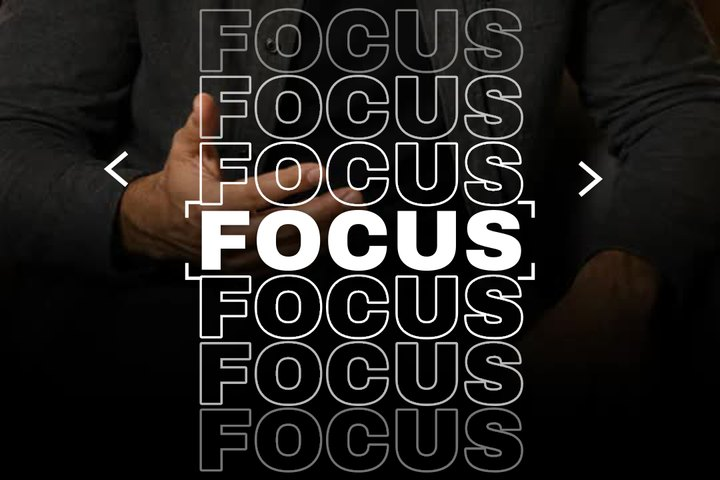
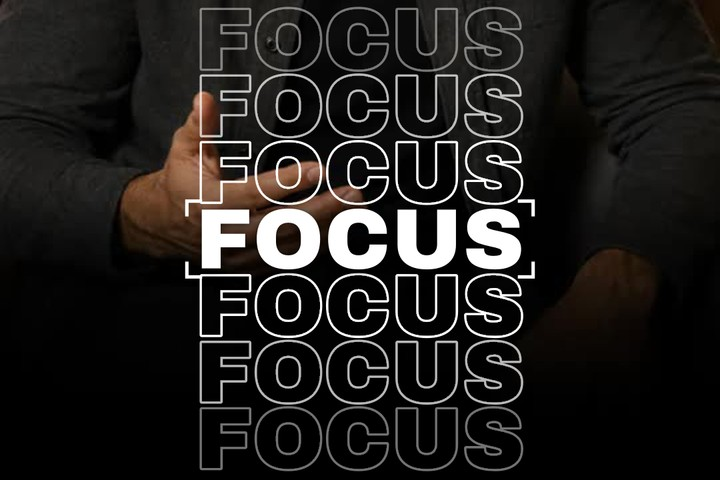
fix(captions): remove Cascade arrow decorations

diff --git a/packages/caption-scene/src/templates/cascade.ts b/packages/caption-scene/src/templates/cascade.ts
@@ -13,14 +13,14 @@ import { polygonPath, rectPath } from "../shapes";
  * Ordinary words are italic lockups (Archivo Black 84 px, sheared -12 degrees, the whole block tipped -6 degrees, each row stepped
  * in 46 px) riding a thin white rule; every word cuts in with a red / cyan split that snaps to white in 150 ms. The hero word
  * punches in upright, fitted to 600 px, blur to sharp, and fires an echo cascade: outline copies above and below it flash on a
- * 150 ms beat (stack, gone, stack, staircase), two chevrons hop around it, and a level rule draws in under it. The block leaves
+ * 150 ms beat (stack, gone, stack, staircase), and a level rule draws in under it. The block leaves
  * with a left-to-right wipe.
  *
  * What changed from the sample, and why (gallery-3 brief, 2026-11-21):
- * - `LEFT 170` is gone: the block (chevrons, rule and the slow drift included) is centred on the anchor; a right-to-left cue is the
+ * - `LEFT 170` is gone: the block (rule and the slow drift included) is centred on the anchor; a right-to-left cue is the
  *   mirror image (tilt, shear, indent, drift and wipe all flip, rows are flush right).
  * - The rule ran x 20 -> 980 (outside the safe margin) and the 46 px indent pushed a third row to the edge: the rule now spans the
- *   block (plus the chevrons' room), the row limit shrinks with the number of rows, and a block that still does not fit shrinks as
+ *   block, the row limit shrinks with the number of rows, and a block that still does not fit shrinks as
  *   a whole. Lockup words had no fit: a word wider than a row shrinks the block (no floor, a word must fit).
  * - The sample's hero cue drew only the hero and silently dropped every other word of the cue. Now the words before and after the
  *   hero are lockup rows (italic, straight, centred) above and below it, and a cue's hero run of several words is one hero row.
@@ -28,8 +28,7 @@ import { polygonPath, rectPath } from "../shapes";
  *   horizontal trail.
  * - `PATTERN` was the same on every hero cue: four beat patterns now cycle by a counter of hero cues. The cascade needs ~1.3 s;
  *   it is compressed to the time the hero has (beat 100 to 150 ms, leading silent beats dropped, the rule drawn in what is left).
- * - Recurring extras in the template's own language (counted per cue by the tests): on every lockup cue a chevron pair that points
- *   into the first word and nudges forward as each word lands (three variants), a scan bar that sweeps each word as it splits
+ * - Recurring extras in the template's own language (counted per cue by the tests): on every lockup cue a scan bar that sweeps each word as it splits
  *   (three variants), and a rule that is drawn in red / cyan before it settles white; on every hero cue register brackets that close
  *   in on the hero (three variants), the same red / cyan rule, and a rule that draws left, right or from the middle.
  * - Real speech: the sample's 160 ms wipe covered the last 180 ms of speech. The exit never starts before the last word has been
@@ -37,6 +36,7 @@ import { polygonPath, rectPath } from "../shapes";
  *   the sample's 0.018 px/ms, stopped after 1.7 s so it never leaves the safe area on a long hold.
  *   Handoffs use the shared export grid at the render's actual frame rate. Overlapping speakers get lanes clear of live echoes;
  *   trimming a decoration leaves the word's lead intact, and the hero includes the preceding frame even at 24 fps.
+ * - Arrow decorations are omitted from both hero and lockup cues at the owner's request.
  * - The hero punch blur (14 px for 170 ms) is kept (two frames of it at 30 fps are visible); the rule's `0 2px 8px` shadow is
  *   dropped (invisible on the dark footage the template is judged on); the words' shadow is one soft layer.
  * - The tilted wipe edge is the sample's local vertical, a canvas clip per word at that word's row (it leans 6 degrees in the sample).
@@ -88,7 +88,6 @@ const RULE_THICK = 4;
 const RULE_SEG = 170;
 const EXIT = 160;
 const HOLD = 150;
-const CHEVRON_GAP = 26;
 
 /** Archivo Black's line box: ascent 0.878 and descent 0.21 em, each rounded to whole px by Chrome. */
 export function cascadeBaseline(sizePx: number): number {
@@ -105,12 +104,6 @@ export function cascadeHash(text: string): number {
     h = Math.imul(h, 0x01000193);
   }
   return h >>> 0;
-}
-
-/** The sample's seeded spot generator for the chevrons. */
-export function cascadeRand(n: number): number {
-  const x = Math.sin(n * 127.1 + 311.7) * 43758.5453;
-  return x - Math.floor(x);
 }
 
 const SIMPLE = /^[\p{Script=Latin}\p{Script=Cyrillic}\p{Script=Greek}\p{Script=Common}\p{Script=Inherited}]+$/u;
@@ -444,13 +437,6 @@ function buildCue(cue: SceneCue, cueNumber: number, input: SceneInput, variant: 
     }
   };
 
-  /** A chevron polygon (the sample's 7 px polyline, square caps) in a 44 x 56 box, scaled by `k`, pointing right (`dir` 1) or left (-1). */
-  const chevronPath = (k: number, dir: 1 | -1) => {
-    const pts: [number, number][] = [[3.07, 6.41], [7.59, 1.07], [39.43, 28], [7.59, 54.93], [3.07, 49.59], [28.57, 28]];
-    return polygonPath(pts.map(([x, y]) => [(dir === 1 ? x : 44 - x) * k, y * k] as [number, number]));
-  };
-  const chevronBox = (k: number) => ({ w: 44 * k, h: 56 * k });
-
   const lead = roles.lead;
   const heroIdx = roles.hero;
   const tail = roles.tail;
@@ -491,7 +477,6 @@ function buildCue(cue: SceneCue, cueNumber: number, input: SceneInput, variant: 
     const shadows = [{ dx: 0, dy: 4 * u * k0, blur: 5 * u * k0, colour: colours.shadow, alpha: 0.6 }];
     const wordList: { index: number; row: Row; item: Row["items"][number] }[] = [];
     for (const row of laid.rows) for (const item of row.items) wordList.push({ index: item.index, row, item });
-    const byTime = [...wordList].sort((a, b) => startOf(a.index) - startOf(b.index));
     const swap = (lockupNumber + (seed & 1)) % 2 === 1;
     for (const { index, row, item } of wordList) {
       const s = Math.round(lockupEnter(index));
@@ -558,84 +543,6 @@ function buildCue(cue: SceneCue, cueNumber: number, input: SceneInput, variant: 
     const drawDur = Math.round(clamp(exitFrom - drawFrom - 20, minAnim, 420));
     rule("rule", fr, ruleA, ruleB, ruleY, drawFrom, drawDur, rtl ? -1 : 1, dr, 1);
 
-    // chevron pair: points into the first word, nudges ahead as each word lands
-    const first = byTime[0]!;
-    const variant = lockupNumber % 3;
-    const kc = 0.8 * k0;
-    const box = chevronBox(kc);
-    const count = variant === 1 ? 3 : variant === 0 ? 2 : 1;
-    const alphas = variant === 1 ? [0.35, 0.65, 1] : [1, 1];
-    const cyl = first.row.ly + sizeC / 2;
-    const startLx = first.item.lx;
-    const lead0 = first.row.items[0]!.lx;
-    const wordsStarts = byTime.map((entry) => startOf(entry.index));
-    const nudge = (t: number) => {
-      let sum = 0;
-      for (const start of wordsStarts.slice(1)) if (t >= start) sum += 10 * u * Math.exp(-(t - start) / 120);
-      return Math.min(sum, 14 * u) * sgn;
-    };
-    const chevAt = Math.round(lockupEnter(first.index));
-    const items: { w: number; h: number; path: ReturnType<typeof chevronPath>; lx: number }[] = [];
-    // slots counted from the word outwards
-    let outward = CHEVRON_GAP * u * k0;
-    for (let c = 0; c < count; c++) items.push({ w: box.w, h: box.h, path: chevronPath(kc, sgn as 1 | -1), lx: 0 });
-    let slot = 0;
-    for (const item of items) {
-      const lxEdge = rtl ? lead0 + first.row.width + outward : startLx - outward;
-      const lxCentre = rtl ? lxEdge + item.w / 2 : lxEdge - item.w / 2;
-      const o: Frames = [[chevAt + slot * 40, 0], [chevAt + slot * 40 + 90, alphas[slot] ?? 1]];
-      const from = chevAt + slot * 40;
-      const slide = (t: number) => (1 - EASES.outExpo(prog(t, from, 200))) * -44 * u * sgn;
-      const pivot = (t: number) => at(fr, lxCentre + slide(t) + nudge(t), cyl);
-      const clipFr = fr;
-      const clip = wipeClip(clipFr, cyl, dr, from, exitTo);
-      pieces.push({
-        id: `cascade:${cueNumber}:chev${slot}`,
-        kind: "shape",
-        z: band + 5,
-        fromMs: from,
-        toMs: exitTo,
-        path: item.path,
-        origin: { dx: item.w / 2, dy: item.h / 2 },
-        fill: { colour: WHITE },
-        track: {
-          x: chan((t) => pivot(t).x + dr(t), from, exitTo, [from + 200, cue.startMs + DRIFT_MS, ...wordsStarts.flatMap((start) => [start, start + 120, start + 360])], 0.2),
-          y: chan((t) => pivot(t).y, from, exitTo, [from + 200, ...wordsStarts.flatMap((start) => [start, start + 120, start + 360])], 0.2),
-          rz: frame(from, fr.theta),
-          o,
-        },
-        clip,
-      });
-      outward += item.w + 8 * u * k0;
-      slot++;
-    }
-    if (variant === 2) {
-      // a short bar in front of the single chevron: a dash that points the way
-      const barW = 34 * u * k0;
-      const barH = 6 * u * k0;
-      const lxEdge = rtl ? lead0 + first.row.width + outward : startLx - outward;
-      const lxCentre = rtl ? lxEdge + barW / 2 : lxEdge - barW / 2;
-      const from = chevAt + 40;
-      const slide = (t: number) => (1 - EASES.outExpo(prog(t, from, 200))) * -44 * u * sgn;
-      const pivot = (t: number) => at(fr, lxCentre + slide(t) + nudge(t), cyl);
-      pieces.push({
-        id: "cascade:" + cueNumber + ":chevbar",
-        kind: "shape",
-        z: band + 5,
-        fromMs: from,
-        toMs: exitTo,
-        path: rectPath(0, 0, barW, barH),
-        origin: { dx: barW / 2, dy: barH / 2 },
-        fill: { colour: WHITE },
-        track: {
-          x: chan((t) => pivot(t).x + dr(t), from, exitTo, [from + 200, cue.startMs + DRIFT_MS, ...wordsStarts.flatMap((start) => [start, start + 120, start + 360])], 0.2),
-          y: chan((t) => pivot(t).y, from, exitTo, [from + 200, ...wordsStarts.flatMap((start) => [start, start + 120, start + 360])], 0.2),
-          rz: frame(from, fr.theta),
-          o: [[from, 0], [from + 90, 1]],
-        },
-        clip: wipeClip(fr, cyl, dr, from, exitTo),
-      });
-    }
     return finish(pieces);
   }
 
@@ -825,35 +732,6 @@ function buildCue(cue: SceneCue, cueNumber: number, input: SceneInput, variant: 
     });
   }
 
-  // chevrons hop around the block on every beat after the first
-  const heroBlockHalf = Math.max(widest, heroW) / 2;
-  const kc = 1 * (heroSizeC / (HERO_MAX * u)) ** 0.5;
-  const cbox = chevronBox(kc * u);
-  for (let step = pattern.length > 1 ? 1 : 0; step < pattern.length; step++) {
-    const from = Math.round(castFrom + step * beat);
-    const to = Math.round(Math.min(castFrom + (step + 1) * beat, cEnd));
-    if (to <= from) continue;
-    for (let i = 0; i < 2; i++) {
-      const sd = step * 7 + i * 3 + cue.index * 31 + (seed % 97);
-      const side = (i + step) % 2 === 0 ? -1 : 1;
-      const x = frHero.ex + side * (heroBlockHalf + 70 * u + cascadeRand(sd) * 90 * u);
-      const y = heroCentre.y - 260 * u + cascadeRand(sd + 1) * 520 * u;
-      const cx = clamp(x, safe.x1 + cbox.w / 2, safe.x2 - cbox.w / 2);
-      const cy = clamp(y, frHero.ey + rangeLo + cbox.h / 2, frHero.ey + rangeHi - cbox.h / 2);
-      pieces.push({
-        id: `cascade:${cueNumber}:chev${step}${i}`,
-        kind: "shape",
-        z: band + 5,
-        fromMs: from,
-        toMs: to,
-        path: chevronPath(kc * u, side < 0 ? -1 : 1),
-        origin: { dx: cbox.w / 2, dy: cbox.h / 2 },
-        fill: { colour: WHITE },
-        track: { x: frame(from, cx), y: frame(from, cy) },
-      });
-    }
-  }
-
   // register brackets close in on the hero
   {
     const capTop = frHero.ey + heroTop + heroBase + input.measure("H", FACE, heroSizeC, LS).inkTop;
@@ -1008,7 +886,7 @@ function coverFrame(q: Piece, dyQ: number, words: readonly { piece: Piece; dy: n
 }
 
 const inkId = (piece: Piece) => /^cascade:\d+:(w|h)\d+[ab]?$/.test(piece.id);
-const decorId = (piece: Piece) => /^cascade:\d+:(e\d|chev|br|scan)/.test(piece.id);
+const decorId = (piece: Piece) => /^cascade:\d+:(e\d|br|scan)/.test(piece.id);
 
 /**
  * The handoff rule between cues (`gallery3-brief.md`), in its order: the earlier cue's exit gives way (a wipe shortens or drops
@@ -1047,7 +925,7 @@ function orchestrate(input: SceneInput, probes: readonly Piece[][], variants: re
   /** How a probe piece of cue j moves when j gives up lead: 0 never, 1 with the rule's lead, 2 with the words'. */
   const kindOf = (piece: Piece, j: number) => {
     const id = piece.id.split(":").slice(2).join(":");
-    if (/^e\d/.test(id) || /^chev\d\d$/.test(id)) return 0;
+    if (/^e\d/.test(id)) return 0;
     if (/^rule\d+[rc]?$/.test(id)) return heroCue[j] ? 0 : 1;
     return 2;
   };
@@ -1155,7 +1033,7 @@ function orchestrate(input: SceneInput, probes: readonly Piece[][], variants: re
     }
     const ctl: Control = { shift: shift[i]!, decor: decor[i]!, limit, dy: dy[i]! };
     let mine = ctl.shift === 0 && ctl.decor === 0 && ctl.dy === 0 && !Number.isFinite(ctl.limit) ? probes[i]! : buildCue(cues[i]!, i, input, variants[i]!, ctl);
-    // Decoration (echoes, chevrons, brackets, scan bars) a later cue's word ink still covers ends before it, ahead of any word.
+    // Decoration (echoes, brackets, scan bars) a later cue's word ink still covers ends before it, ahead of any word.
     const ink = later.flatMap((j) => built[j]!.filter(inkId));
     if (ink.length > 0) {
       mine = mine.flatMap((piece) => {

diff --git a/packages/caption-scene/src/cascade.test.ts b/packages/caption-scene/src/cascade.test.ts
@@ -5,7 +5,7 @@ import { exportFrameAtOrBefore, exportFrameTimes } from "./frame-grid";
 import { EASES, prog } from "./ease";
 import type { SceneCue } from "./input";
 import { type Box, type Piece, type ShapePiece, type TextPiece, evaluatePiece, pieceBounds, sceneBoundsAt } from "./scene";
-import { CASCADE_DEMO, CASCADE_PATTERNS, cascadeBaseline, cascadeBeats, cascadeCase, cascadeHash, cascadeProgram, cascadeRand, cascadeShears } from "./templates/cascade";
+import { CASCADE_DEMO, CASCADE_PATTERNS, cascadeBaseline, cascadeBeats, cascadeCase, cascadeHash, cascadeProgram, cascadeShears } from "./templates/cascade";
 import { fakeMeasure, sceneInput } from "./test-support";
 
 const { cues } = demoCues(CASCADE_DEMO);
@@ -68,7 +68,7 @@ describe("Cascade geometry", () => {
     expect(cascadeBaseline(128)).toBe(106.5);
   });
 
-  test("the block, chevrons and rule are centred on the anchor and rows step in 46 px", () => {
+  test("the block and rule are centred on the anchor and rows step in 46 px", () => {
     const rows = ofCue(scene, 0).filter((piece) => /^w\d$/.test(idOf(piece)));
     expect(rows.length).toBe(5);
     const mid = (list: readonly Piece[]) => {
@@ -170,8 +170,6 @@ describe("Cascade motion", () => {
   test("the seeded helpers are pure and the build is deterministic", () => {
     expect(cascadeHash("a")).toBe(cascadeHash("a"));
     expect(cascadeHash("a")).not.toBe(cascadeHash("b"));
-    expect(cascadeRand(3)).toBe(cascadeRand(3));
-    expect(cascadeRand(3)).not.toBe(cascadeRand(4));
     expect(JSON.stringify(build(cues))).toBe(JSON.stringify(build(cues)));
   });
 });
@@ -215,17 +213,16 @@ describe("Cascade real speech and long clips", () => {
     const long = longClip(6);
     expect(long.length).toBeGreaterThanOrEqual(30);
     const list = build(long);
-    const chevronCounts = new Set<string>();
     const echoSignatures = new Set<string>();
     const bracketSignatures = new Set<string>();
     const scans = { total: 0, vertical: 0, horizontal: 0 };
     const sides = new Set<number>();
-    let chevronPairs = 0;
     let scanBars = 0;
     let brackets = 0;
     let ruleLeads = 0;
     long.forEach((cue, number) => {
       const mine = ofCue(list, number);
+      expect(mine.some((piece) => /^chev/.test(idOf(piece)))).toBe(false);
       const hero = cue.words.some((word) => word.role === "hero");
       expect(mine.some((piece) => /^rule\d/.test(idOf(piece)))).toBe(true);
       expect(mine.some((piece) => /^rule\d+r$/.test(idOf(piece)))).toBe(true);
@@ -237,12 +234,7 @@ describe("Cascade real speech and long clips", () => {
         bracketSignatures.add(br.map((piece) => idOf(piece)).join());
         const echoes = mine.filter((piece) => /^e/.test(idOf(piece)));
         echoSignatures.add(echoes.map((piece) => `${idOf(piece).match(/s\d/)![0]}${Math.round(evaluatePiece(piece, piece.fromMs).x)}`).join());
-        expect(mine.filter((piece) => /^chev/.test(idOf(piece))).length).toBeGreaterThanOrEqual(2);
       } else {
-        const chevs = mine.filter((piece) => /^chev/.test(idOf(piece)));
-        expect(chevs.length).toBeGreaterThanOrEqual(2);
-        chevronCounts.add(chevs.map((piece) => idOf(piece)).join());
-        chevronPairs++;
         const bars = mine.filter((piece) => /^scan\d/.test(idOf(piece))) as ShapePiece[];
         expect(bars.length).toBe(cue.words.length);
         scanBars += bars.length;
@@ -256,14 +248,12 @@ describe("Cascade real speech and long clips", () => {
       }
       for (const piece of mine) sides.add(Math.sign(Math.round(evaluatePiece(piece, piece.fromMs).x - 540)));
     });
-    // Three chevron variants, three bracket variants, four echo patterns, both scan directions.
-    expect(chevronCounts.size).toBeGreaterThanOrEqual(3);
+    // Three bracket variants, four echo patterns, both scan directions.
     expect(bracketSignatures.size).toBeGreaterThanOrEqual(3);
     expect(echoSignatures.size).toBeGreaterThanOrEqual(4);
     expect(scans.horizontal).toBeGreaterThan(0);
     expect(scans.vertical).toBeGreaterThan(scans.horizontal);
-    // Per 24+ cues: every lockup cue has a chevron pair and a scan bar per word, every hero cue brackets, every cue a rule lead.
-    expect(chevronPairs).toBeGreaterThanOrEqual(18);
+    // Per 24+ cues: every lockup cue has a scan bar per word, every hero cue brackets, every cue a rule lead.
     expect(scanBars).toBeGreaterThanOrEqual(60);
     expect(brackets).toBeGreaterThanOrEqual(24);
     expect(ruleLeads).toBeGreaterThanOrEqual(2 * 30);
@@ -371,17 +361,15 @@ describe("Cascade review fixes", () => {
     expect(wordOf(turkish, 0, "w0").text).toBe("İSTANBUL");
   });
 
-  test("5: a 70 ms hero with no gap still gets a chevron beat and a rule that starts at its onset", () => {
+  test("5: a 70 ms hero with no gap still gets a rule that starts at its onset", () => {
     const short = cuesOf(["I:h@70", "then:b@300"], { cueGap: 0 });
     const list = build(short);
     const mine = ofCue(list, 0);
-    const chevrons = mine.filter((piece) => /^chev\d\d$/.test(idOf(piece)));
-    expect(chevrons.length).toBeGreaterThanOrEqual(1);
     const rules = mine.filter((piece) => /^rule\d+$/.test(idOf(piece)));
     expect(rules.length).toBeGreaterThanOrEqual(1);
     // Nothing before the hero's own entrance, and each is painted on at least two frames.
     const heroFrom = wordOf(list, 0, "h0").fromMs;
-    for (const piece of [...rules, ...chevrons]) {
+    for (const piece of rules) {
       expect(piece.fromMs).toBeGreaterThanOrEqual(heroFrom);
       expect(paintedCount(piece)).toBeGreaterThanOrEqual(2);
     }
@@ -553,7 +541,7 @@ describe("Cascade re-check fixes (handoff rule)", () => {
   });
 
   test("6: painted frames decide one-frame flashes, and the cue's end bounds everything it schedules", () => {
-    // Speakers 2 ms apart: no chevron or bracket is painted on a single frame.
+    // Speakers 2 ms apart: no decoration is painted on a single frame.
     const a = demoCues({ lines: ["A> one:b@300"], options: { lead: 333 } }).cues[0]!;
     const b = demoCues({ lines: ["B> TWO:h@300"], options: {} }).cues[0]!;
     const close = [{ ...a, endMs: 1200 }, { ...b, index: 1, startMs: 335, endMs: 1200, words: b.words.map((word) => ({ ...word, startMs: 335, endMs: 635 })) }];
